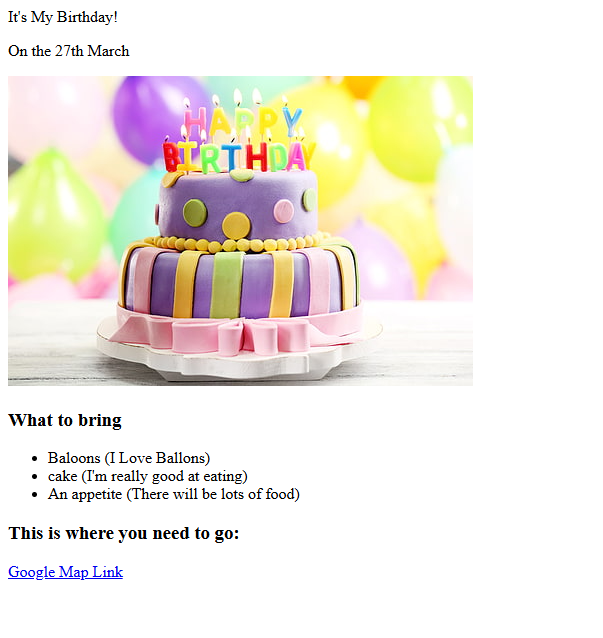
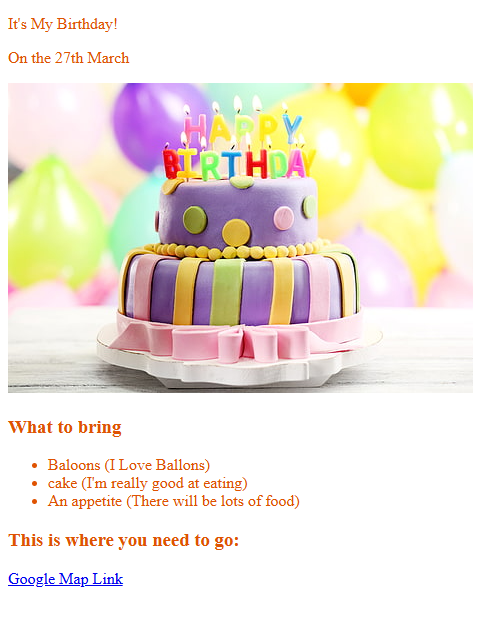
Add files via upload

diff --git a/index.html b/index.html
@@ -5,14 +5,14 @@
     <title>Abdulsalam Portfolio</title>
    <style>
     html {
-        background: rgb(0, 161, 67)
+        background: rgb(221, 125, 16)
     }
    </style>
 </head>
 <body>
    <center>
     <h1 style="color: rgb(255, 255, 255);">Abdulsalam portfolio</h1>
-    <h2 style="color: rgb(179, 255, 3);"> I am a web developer</h2>
+    <h2 style="color: rgb(255, 255, 255);"> I am a web developer</h2>
    </center>
     <hr/>
     <h3><a href="./public/movie-ranking.html">Movie Ranking Project</a></h3>
@@ -20,11 +20,9 @@
     <h3><a href="./public/birthday.html">Birthday Invite Project</a></h3>
     <img src="./assets/images/birthday-invite.png" height="200" alt="birthday invite project preview"/>
     <hr />
-  <button style="border-radius: 15px;"
-    <a href="./public/about.html">About Me</a>
-  </button>
-  <button style="border-radius: 15px;"
-    <a href="./public/contact.html">Contact Me</a>
-    </button>
+<button style="border-radius: 15px;"><a href="./public/about.html">About Me</a>
+</button>
+<button style="border-radius: 15px;"><a href="./public/contact.html">Contact Me</a>
+</button>
 </body>
 </html>

diff --git a/public/movie-ranking.html b/public/movie-ranking.html
@@ -1,9 +1,15 @@
-<h1>The Best Movies According To Abdulsalam</h1>
+<style>
+    html {
+        background: rgb(255, 255, 255);
+        color: black;
+ }
+</style>
+<h1 style="color: rgb(3, 177, 40)">The Best Movies According To Abdulsalam</h1>
 <h2>My top 3 movies of all-time.</h2>
 <hr/>
-<h3>AFTER</h3>
+<h3 style="color:rgb(255, 0, 0)">AFTER</h3>
 <P>favourite american series</P>
-<h4>Cobra Kai</h4>
+<h3 style="color:rgb(255, 0, 0)">Cobra Kai</h3>
 <p>It is a series movie for the continuation of the THE KARATE KID(a 1984 American martial arts drama)</p>
-<h3>Happy New Year</h3>
+<h3 style="color:rgb(255, 0, 0)">Happy New Year</h3>
 <p>it is an indian movie about revenge and heist</p>

diff --git a/public/about.html b/public/about.html
@@ -1,4 +1,10 @@
-<h1>About Me</h1>
+<style>
+  html {
+    background: rgb(255, 255, 255);
+    color:rgb(231, 3, 71);
+  }
+</style>
+<h1 style="color:brown">About Me</h1>
 <p>Hello welcome to my world,my name is <stong>ABDULKAREEM ABDULSALAM.</stong> I am a software engineering fellow at <em>IOTBTECH FELLOWSHIP,</em> COHORT 4 2025 set.</p>
 <p>I am a very passionate person,funny and love to teach. I love been positive a lot</p>
 <p>I am a muslim, not just a muslim but a practising muslim and sufist, I love reading the QUR'AN  prophet muhammad and my favourite eulogy and poem written for the prophet are:

diff --git a/public/birthday.html b/public/birthday.html
@@ -1,6 +1,12 @@
 <!DOCTYPE html>
 <html lang="en">
-<p1>It's My Birthday!</p1>
+ <style>
+   html {
+      background: rgb(255, 255, 255);
+      color:rgb(223, 83, 2);
+   }
+ </style>
+<p>It's My Birthday!</p1>
 <p>On the 27th March</p>
 <img src="https://raw.githubusercontent.com/appbrewery/webdev/main/birthday-cake3.4.jpeg"
 alt="purple birthday cake with candles" />

diff --git a/public/contact.html b/public/contact.html
@@ -1,4 +1,10 @@
-<h1>Contact Me</h1>
+<style>
+  html {
+    background: rgb(255, 255, 255);
+    color:rgb(100, 5, 2);
+  }
+</style>
+<h1 style="color: rgb(255, 187, 0);">Contact Me</h1>
 <p>Tel: +2348100850680</p>
 <p>Email: abdulkareemabdulsalam342@gmail.com</p>
 <p>Shagamu Ogun state, Nigeria:</p>
